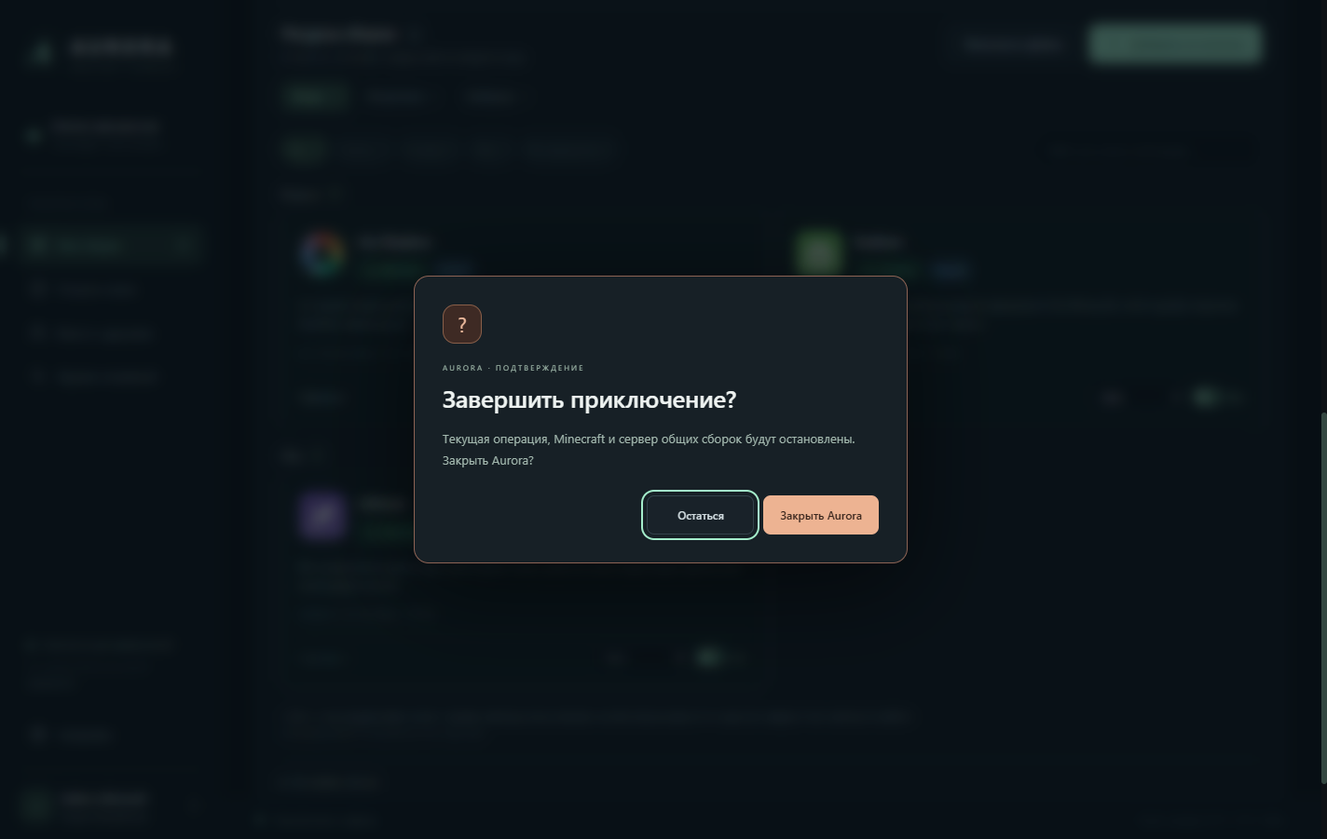
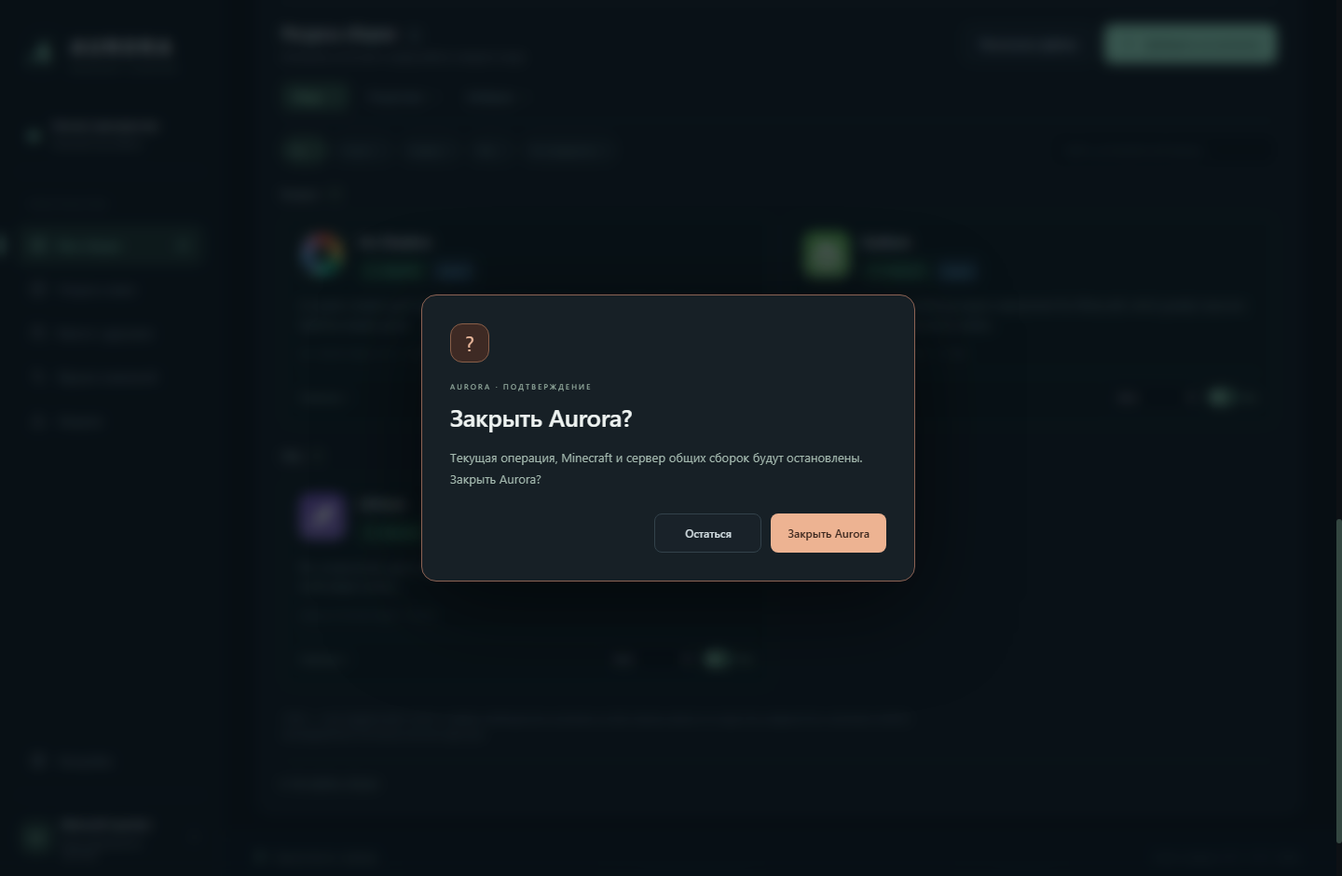
Document Aurora 0.4 release and verified Windows and Linux builds

diff --git a/docs/index.html b/docs/index.html
@@ -1,10 +1,10 @@
 <!doctype html>
 <html lang="ru"><head><meta charset="utf-8"><meta name="viewport" content="width=device-width, initial-scale=1"><meta name="theme-color" content="#0b1414"><meta name="description" content="Aurora — настольный Minecraft-лаунчер для Windows и Linux. Собирайте свой мир, управляйте модами и делитесь сборкой с друзьями."><title>Aurora — твой мир начинается здесь</title><link rel="icon" href="assets/icon.png"><link rel="stylesheet" href="style.css"></head>
 <body><a class="skip" href="#main">К содержимому</a><header><a class="brand" href="#" aria-label="Aurora — главная"><span class="brand-icon">A</span><span>AURORA<small>MINECRAFT LAUNCHER</small></span></a><nav aria-label="Основная навигация"><a href="#workspace">Возможности</a><a href="#integrations">Интеграции</a><a class="nav-source" href="https://github.com/ffxlino/Aurora">GitHub ↗</a></nav></header>
-<main id="main"><section class="hero"><img class="landscape" src="assets/landscape.svg" alt="" fetchpriority="high"><div class="hero-shade"></div><div class="hero-content"><div class="eyebrow"><span class="dot"></span> WINDOWS / LINUX x64 · PREVIEW 0.3.0</div><h1>Твой мир.<br>Твои правила.<br><em>Твоя Aurora.</em></h1><p>От первого блока до общего приключения.<br>Сборки, любимые моды и друзья — в одном<br class="desktop"> настольном лаунчере.</p><div class="hero-actions"><a class="button primary" href="https://github.com/ffxlino/Aurora/releases/tag/v0.3.0">Скачать Aurora <span>↗</span></a><a class="button ghost" href="#workspace">Посмотреть интерфейс ↓</a></div><div class="hero-note">Открытый исходный код · Minecraft Java Edition</div></div><div class="landscape-label">01 / MINECRAFT JAVA EDITION</div></section>
-<section class="intro" id="workspace"><div class="section-label">01 — ЛИЧНОЕ ПРОСТРАНСТВО</div><div class="section-heading"><h2>Каждая сборка —<br><span>отдельная история.</span></h2><p>Уютный survival, техническая сборка или мир для компании. Выбирай версию Minecraft и загрузчик, добавляй ресурсы и сохраняй порядок в своей библиотеке.</p></div><figure class="app-preview"><div class="window-bar"><span class="window-dots">● ● ●</span><span>Aurora / Ресурсы сборки</span><span>DESKTOP</span></div><img src="assets/resources.png" alt="Реальный интерфейс Aurora: карточки Iris, Sodium и Lithium с описаниями, источниками и переключателями" width="1424" height="901" loading="lazy"><figcaption>Настоящий интерфейс версии 0.3.0. Показана тестовая сборка Minecraft 1.21.1.</figcaption></figure><div class="feature-row"><article><span class="feature-number">01</span><h3>Видно, что установлено</h3><p>Иконка, описание, версия и источник каждого ресурса. Моды разделены на клиентские, серверные и общие; неизвестную категорию можно уточнить вручную.</p></article><article><span class="feature-number">02</span><h3>Меньше ручной работы</h3><p>Выбор совместимых версий, загрузка обязательных зависимостей и подходящей Java. Шейдеры и ресурспаки попадают в свои папки.</p></article><article><span class="feature-number">03</span><h3>Изменения под контролем</h3><p>Переключатели модов, резервные копии заменяемых файлов и подтверждения внутри интерфейса. Собирай свой набор постепенно.</p></article></div></section>
-<section class="together" id="friends"><div><div class="section-label">02 — ВМЕСТЕ ЛУЧШЕ</div><h2>Одна сборка.<br><span>Вся компания.</span></h2><p>Открой пространство на своём компьютере и передай друзьям адрес. Они смогут скачать общую сборку, а доверенные редакторы — публиковать изменения.</p><a class="text-link" href="https://github.com/ffxlino/Aurora/blob/main/documentation/USER_GUIDE_RU.md">Как устроена совместная работа ↗</a></div><div class="sharing-list"><div><span>01</span><section><h3>Доступ по твоим правилам</h3><p>В текущей версии используется мастер-пароль. Авторизация редакторов по Minecraft ожидает одобрения Mojang.</p></section></div><div><span>02</span><section><h3>Понятная история</h3><p>Кто изменил файлы, что добавлено и когда опубликована новая ревизия.</p></section></div><div><span>03</span><section><h3>Синхронизация с проверкой</h3><p>Загрузка по запросу и обнаружение конфликтов локальных изменений.</p></section></div></div><p class="section-footnote">Хост должен оставаться включённым и доступным по сети. Пространство синхронизирует файлы сборки; для совместной игры нужен отдельный Minecraft-сервер или LAN-мир.</p></section>
-<section class="integrations" id="integrations"><div class="section-label">03 — ОТКРЫТО ОБ ИНТЕГРАЦИЯХ</div><div class="section-heading"><h2>Любимые ресурсы.<br><span>Понятные источники.</span></h2><p>Aurora находится в разработке. Здесь указан фактический статус подключений, чтобы было ясно, что уже проверено и что ещё требует настройки.</p></div><div class="integration-grid"><article><div class="provider modrinth">◉ Modrinth</div><h3>Каталог и установка</h3><p>Сборки, моды, ресурспаки и шейдеры. Поиск и настоящие загрузки проверены, включая Sodium, Iris и Complementary.</p><span class="status ready">Проверены реальные загрузки</span></article><article><div class="provider curseforge">◆ CurseForge</div><h3>Подготовленная интеграция</h3><p>Поиск, версии, зависимости и импорт реализованы. Для использования нужен одобренный API-ключ приложения; у Aurora его пока нет. В версии 0.3.0 источник временно отключён.</p><span class="status pending">Требуется доступ к API</span></article><article><div class="provider microsoft">▦ Microsoft</div><h3>Официальный аккаунт</h3><p>Пока Mojang рассматривает заявку, Aurora готовит профиль и открывает официальный Minecraft Launcher. Вход выполняется там.</p><span class="status pending">Запуск через официальный лаунчер</span></article></div><aside class="reviewer" lang="en"><strong>For API reviewers</strong><p>Aurora is an independent Windows and Linux desktop launcher. The integration uses project search, compatible file metadata, dependencies and permitted downloads. Unavailable third-party downloads are rejected. No other launcher's API key is bundled. Live CurseForge validation is pending project API access.</p><a class="text-link" href="https://github.com/ffxlino/Aurora/blob/main/documentation/INTEGRATIONS.md">Read the integration overview ↗</a></aside></section>
+<main id="main"><section class="hero"><img class="landscape" src="assets/landscape.svg" alt="" fetchpriority="high"><div class="hero-shade"></div><div class="hero-content"><div class="eyebrow"><span class="dot"></span> WINDOWS / LINUX x64 · PREVIEW 0.4.0</div><h1>Твой мир.<br>Твои правила.<br><em>Твоя Aurora.</em></h1><p>От первого блока до общего приключения.<br>Сборки, любимые моды и друзья — в одном<br class="desktop"> настольном лаунчере.</p><div class="hero-actions"><a class="button primary" href="https://github.com/ffxlino/Aurora/releases/tag/v0.4.0">Скачать Aurora <span>↗</span></a><a class="button ghost" href="#workspace">Посмотреть интерфейс ↓</a></div><div class="hero-note">Открытый исходный код · Minecraft Java Edition</div></div><div class="landscape-label">01 / MINECRAFT JAVA EDITION</div></section>
+<section class="intro" id="workspace"><div class="section-label">01 — ЛИЧНОЕ ПРОСТРАНСТВО</div><div class="section-heading"><h2>Каждая сборка —<br><span>отдельная история.</span></h2><p>Уютный survival, техническая сборка или мир для компании. Выбирай версию Minecraft и загрузчик, добавляй ресурсы и сохраняй порядок в своей библиотеке.</p></div><figure class="app-preview"><div class="window-bar"><span class="window-dots">● ● ●</span><span>Aurora / Ресурсы сборки</span><span>DESKTOP</span></div><img src="assets/resources.png" alt="Реальный интерфейс Aurora: карточки Iris, Sodium и Lithium с описаниями, источниками и переключателями" width="1424" height="901" loading="lazy"><figcaption>Настоящий интерфейс версии 0.4.0. Показана тестовая сборка Minecraft 1.21.1.</figcaption></figure><div class="feature-row"><article><span class="feature-number">01</span><h3>Видно, что установлено</h3><p>Иконка, описание, версия и источник каждого ресурса. Моды разделены на клиентские, серверные и общие; неизвестную категорию можно уточнить вручную.</p></article><article><span class="feature-number">02</span><h3>Меньше ручной работы</h3><p>Выбор совместимых версий, загрузка обязательных зависимостей и подходящей Java. Шейдеры и ресурспаки попадают в свои папки.</p></article><article><span class="feature-number">03</span><h3>Изменения под контролем</h3><p>Резервные копии с мирами, массовое обновление с откатом и диагностика ошибок. Подтверждения остаются внутри интерфейса.</p></article></div></section>
+<section class="together" id="friends"><div><div class="section-label">02 — ВМЕСТЕ ЛУЧШЕ</div><h2>Одна сборка.<br><span>Вся компания.</span></h2><p>Открой пространство на своём компьютере и передай друзьям адрес. Они смогут скачать общую сборку, а доверенные редакторы — публиковать изменения.</p><a class="text-link" href="https://github.com/ffxlino/Aurora/blob/main/documentation/USER_GUIDE_RU.md">Как устроена совместная работа ↗</a></div><div class="sharing-list"><div><span>01</span><section><h3>Доступ по твоим правилам</h3><p>Владелец создаёт приглашения с ролями читателя и редактора. Список участников сохраняется, доступ можно отозвать.</p></section></div><div><span>02</span><section><h3>Понятная история</h3><p>Кто изменил файлы, что добавлено и когда опубликована новая ревизия.</p></section></div><div><span>03</span><section><h3>Синхронизация с проверкой</h3><p>Загрузка по запросу и обнаружение конфликтов локальных изменений.</p></section></div></div><p class="section-footnote">Встроенный хост работает при открытой Aurora. Для постоянного доступа подготовлен отдельный сервер Cloudflare Workers Free: его нужно разместить в своём аккаунте. Для совместной игры нужен отдельный Minecraft-сервер или LAN-мир.</p></section>
+<section class="integrations" id="integrations"><div class="section-label">03 — ОТКРЫТО ОБ ИНТЕГРАЦИЯХ</div><div class="section-heading"><h2>Любимые ресурсы.<br><span>Понятные источники.</span></h2><p>Aurora находится в разработке. Здесь указан фактический статус подключений, чтобы было ясно, что уже проверено и что ещё требует настройки.</p></div><div class="integration-grid"><article><div class="provider modrinth">◉ Modrinth</div><h3>Каталог и установка</h3><p>Сборки, моды, ресурспаки и шейдеры. Поиск и настоящие загрузки проверены, включая Sodium, Iris и Complementary.</p><span class="status ready">Проверены реальные загрузки</span></article><article><div class="provider curseforge">◆ CurseForge</div><h3>Подготовленная интеграция</h3><p>Поиск, версии, зависимости и импорт реализованы. Для использования нужен одобренный API-ключ приложения; у Aurora его пока нет. В версии 0.4.0 источник временно отключён.</p><span class="status pending">Требуется доступ к API</span></article><article><div class="provider microsoft">▦ Microsoft</div><h3>Официальный аккаунт</h3><p>Пока Mojang рассматривает заявку, Aurora готовит профиль и открывает официальный Minecraft Launcher. Вход выполняется там.</p><span class="status pending">Запуск через официальный лаунчер</span></article></div><aside class="reviewer" lang="en"><strong>For API reviewers</strong><p>Aurora is an independent Windows and Linux desktop launcher. The integration uses project search, compatible file metadata, dependencies and permitted downloads. Unavailable third-party downloads are rejected. No other launcher's API key is bundled. Live CurseForge validation is pending project API access.</p><a class="text-link" href="https://github.com/ffxlino/Aurora/blob/main/documentation/INTEGRATIONS.md">Read the integration overview ↗</a></aside></section>
 <section class="start" id="start"><div><div class="section-label">04 — НАЧАЛО ПУТИ</div><h2>Собери своё<br><span>следующее приключение.</span></h2><p>Исходники, инструкция по сборке и текущие ограничения доступны в репозитории. Проект продолжает развиваться — обратная связь помогает выбрать следующий шаг.</p></div><div class="start-actions"><a class="button primary" href="https://github.com/ffxlino/Aurora">Открыть репозиторий ↗</a><a class="button ghost" href="https://github.com/ffxlino/Aurora/issues">Задать вопрос ↗</a><small>Windows 10/11 и Linux x64 · Minecraft Java 1.18+<br>Переносимая сборка · EXE без цифровой подписи</small></div></section>
 <section class="faq"><h2>Перед первым запуском</h2><details><summary>Нужно ли устанавливать Java отдельно?</summary><p>Нет. Лаунчер загружает подходящую Java. Готовый Windows EXE включает среду приложения. Node.js нужен только для сборки из исходников.</p></details><details><summary>Можно ли играть без лицензии Minecraft?</summary><p>Для входа и игры нужен аккаунт Microsoft с Minecraft Java Edition. В Aurora нет обхода лицензии. Текущая версия передаёт запуск установленному официальному Minecraft Launcher.</p></details><details><summary>Все сочетания модов будут работать?</summary><p>Каталог подбирает версии по Minecraft и загрузчику, но совместимость произвольных модов проверяется в игре. Категории «Клиент», «Сервер» и «Оба» описывают среду работы, а не гарантируют совместимость.</p></details><details><summary>Как Aurora связана с CraftSync?</summary><p>Aurora продолжает работу в репозитории прежнего проекта CraftSync. Репозиторий переименован, а предыдущая реализация сохранена в истории Git.</p></details></section>
 </main><footer><a class="brand" href="#"><span class="brand-icon">A</span><span>AURORA<small>MINECRAFT LAUNCHER</small></span></a><div><a href="https://github.com/ffxlino">ffxlino ↗</a><a href="https://github.com/ffxlino/Aurora/blob/main/LICENSE">MIT License ↗</a><p>Независимый проект. Не является официальным продуктом Minecraft.<br>Не связан с Mojang, Microsoft, CurseForge, Modrinth или Prism Launcher.</p></div></footer></body></html>

diff --git a/documentation/USER_GUIDE_RU.md b/documentation/USER_GUIDE_RU.md
@@ -1,4 +1,4 @@
-# Aurora 0.3.0
+# Aurora 0.4.0
 
 Десктопный менеджер сборок Minecraft Java 1.18 и новее для Windows и Linux x64.
 
@@ -17,9 +17,9 @@
 
 ## Linux / Arch
 
-Aurora-0.3.0-Linux-x86_64.AppImage: разрешите выполнение файла в свойствах и откройте его. На системах без FUSE 2 можно использовать стандартный режим извлечения AppImage (--appimage-extract-and-run) либо установить пакет pacman.
+Aurora-0.4.0-Linux-x86_64.AppImage: разрешите выполнение файла в свойствах и откройте его. На системах без FUSE 2 можно использовать стандартный режим извлечения AppImage (--appimage-extract-and-run) либо установить пакет pacman.
 
-Aurora-0.3.0-Linux-x64.pacman: установите через `sudo pacman -U ./Aurora-0.3.0-Linux-x64.pacman`. Затем запустите Aurora из меню приложений. Пакет объявляет зависимости GTK, NSS, звука и графики; pacman установит их. Поддерживается x86_64, не ARM. Проверка Linux выполняется в Ubuntu CI; работа именно в вашем окружении Arch/Wayland требует проверки на устройстве.
+Aurora-0.4.0-Linux-x64.pacman: установите через `sudo pacman -U ./Aurora-0.4.0-Linux-x64.pacman`. Затем запустите Aurora из меню приложений. Пакет объявляет зависимости GTK, NSS, звука и графики; pacman установит их. Поддерживается x86_64, не ARM. Проверка Linux выполняется в Ubuntu CI; работа именно в вашем окружении Arch/Wayland требует проверки на устройстве.
 
 Java устанавливается автоматически: Windows ZIP / Linux tar.gz. Учётные данные Microsoft при временном режиме хранит официальный лаунчер.
 
@@ -27,7 +27,17 @@ Java устанавливается автоматически: Windows ZIP / Li
 
 Каталог Modrinth: сборки, моды, ресурспаки и шейдеры; фильтр по версии и загрузчику; обязательные зависимости. Карточки установленных ресурсов с источником, описанием, средой клиент/сервер/оба и переключателем модов. Импорт и экспорт .mrpack. Добавление локальных файлов, переименование, архивирование с сохранением миров, сортировка по имени и дате создания. История изменений и резервные копии. Кнопка открытия настоящего latest.log из папки сборки.
 
-Встроенный HTTPS сервер общих файлов работает, пока Aurora открыта. Пока прямой вход недоступен, подключение в этом режиме возможно по мастер-паролю администратора. Это не постоянный хостинг и не игровой сервер. Белый список сохранён, но проверка игроков требует доступного прямого входа Minecraft. Миры и данные аккаунтов не публикуются.
+Новые возможности 0.4: резервные копии с необязательным сохранением миров и проверкой целостности перед восстановлением; массовое обновление ресурсов Modrinth с копией перед изменением; диагностика типичных сбоев и экспорт очищенного отчёта; отдельная память, Java и размер окна для каждой сборки; избранное, теги и свои обложки; очередь загрузок с паузой и продолжением; выбор совместимой версии загрузчика; возврат сборки из архива.
+
+Встроенный HTTPS сервер общих файлов работает, пока Aurora открыта. Приглашения участников и роли «Читатель» / «Редактор» сохраняются, отзыв приглашения отключает текущую сессию. Имена приглашений задаёт владелец: они не подтверждают личность Microsoft. Проверка UUID Minecraft предусмотрена после одобрения прямой авторизации. Миры и данные аккаунтов не публикуются.
+
+## Постоянный сервер
+
+Код сервера Cloudflare находится в `cloud/`. Размещение ещё требует завершения OAuth владельцем и проверки его тарифа Workers Free. После размещения сервер доступен независимо от открытого приложения. Это хранилище и синхронизация сборки, а не игровой сервер Minecraft.
+
+Используется Workers Free с SQLite Durable Objects, без R2 и платного тарифа. Приложение ограничивает сборку 4 000 000 000 байт, отдельный файл — 512 МиБ, опубликованные и подготовленные файлы вместе — 4 500 000 000 байт. Бесплатные 5 ГБ хранилища распространяются на весь аккаунт, включая другие проекты. При обновлении нужно место для изменённых файлов; большие обновления сборки около 4 ГБ могут не поместиться. Ненужные прежние файлы удаляются после публикации, незавершённые загрузки — через сутки. Перед крупными изменениями сохраните локальную копию.
+
+На Workers Free превышение квот останавливает соответствующие операции, дневные лимиты сбрасываются в 00:00 UTC: https://developers.cloudflare.com/durable-objects/platform/pricing/ . Не подключайте Workers Paid или R2, если требуются отсутствие карты и списаний. Мастер-пароль сервера хранится как секрет Cloudflare и в зашифрованном локальном хранилище владельца, не в исходниках или раздаваемом приложении. Друзья входят по приглашению.
 
 ## Разработка
 

diff --git a/VALIDATION.md b/VALIDATION.md
@@ -1,13 +1,14 @@
-# Проверка Aurora 0.2.1
+# Validation — Aurora 0.4.0
 
-Дата: 11 октября 2026. Windows x64.
+34 launcher tests and 4 cloud-server tests passed locally and in Windows/Linux CI. Server tests use native workerd via Miniflare, including the actual Aurora HubClient publishing chunks and pulling updates while retaining local worlds.
 
-- Client ID владельца встроен в launcher.config.json. Поле ручного ввода ID удалено из пользовательского интерфейса. При обновлении пустая настройка предыдущей версии получает встроенное значение.
-- Убраны лишние слоганы из боковой панели и библиотеки.
-- Закрытие окна входа отменяет ожидание Microsoft и сохраняет ранее подключённый профиль.
-- 22 автоматические проверки пройдены. Добавлены проверки цепочки Microsoft → Xbox → Minecraft на тестовых ответах, отмены входа и сообщения о выключенных public client flows. Тестовые токены не попадают в интерфейс.
-- Проверка настоящего интерфейса пройдена: встроенный ID сохраняется при изменении других настроек, поле ID отсутствует, карточки и подтверждения работают.
+The final Windows portable EXE passed six-view interface tests, custom confirmation acceptance/cancellation, settings/backup/decoration/diagnostic controls, Modrinth resource cards, mod toggling and manual environment selection, HTTPS admin connection and close confirmation. No horizontal overflow in tested views.
 
-Проверка живого запроса Microsoft с Client ID владельца: получен AADSTS70002 (нужно включить public client flows в Entra). Сам вход в аккаунт и запуск лицензированной игры пока не проверены. Это отдельный этап после настройки владельцем.
+Linux AppImage and pacman packaging passed in Ubuntu 22.04 CI. The packaged Linux interface passed six-view tests. A real Minecraft 1.20.1 / Fabric 0.16.10 / Java 17 installation generated the official launcher profile and successfully invoked downloaded Linux Java. Windows real installation was previously validated in 0.3; no new Windows licensed game launch is claimed.
 
-Modrinth и другие возможности проверялись в 0.2.0: реальные загрузки Sodium, Lithium, Iris, Complementary и Fresh Animations; карточки, категории, переключатели и HTTPS-сервер. CurseForge остаётся без проектного API-ключа; проверен на тестовых ответах. Постоянный облачный сервер ещё не развёрнут.
+Cloud worker dry-run bundle passed. Authentication to the owner's Cloudflare account succeeded; live deployment awaits Workers activation and Free-plan confirmation. R2 and paid resources are absent from the configuration. A 4 GB production upload has not been tested.
+
+Not verified: licensed game start and Microsoft sign-in through the official launcher on this Windows machine (the official launcher is not installed), actual Arch/Wayland desktop, hardware-specific graphics/audio. Direct Microsoft sign-in in Aurora and CurseForge remain disabled pending approval. Aurora opens the prepared profile in the official launcher; the user signs in and presses Play there.
+
+CI: https://github.com/ffxlino/Aurora/actions/runs/38433792642
+Release: https://github.com/ffxlino/Aurora/releases/tag/v0.4.0

diff --git a/documentation/INTEGRATIONS.md b/documentation/INTEGRATIONS.md
@@ -1,6 +1,6 @@
 # API integration overview
 
-Aurora is a Windows desktop launcher for Minecraft Java Edition, maintained by GitHub user ffxlino. Its source is in the Aurora repository, renamed from CraftSync. The current application is an Electron desktop app; the website is a static project introduction.
+Aurora is a Windows and Linux desktop launcher for Minecraft Java Edition, maintained by GitHub user ffxlino. Its source is in the Aurora repository, renamed from CraftSync. The current application is an Electron desktop app; the website is a static project introduction.
 
 ## Intended CurseForge usage
 
@@ -19,11 +19,11 @@ Downloads with no available URL are rejected with an explanatory error. The appl
 
 Modrinth: public project search, versions, required dependencies, file hash recognition and mrpack import. Real resource downloads have been verified.
 
-Microsoft: device-code sign-in followed by Xbox Live and Minecraft Services. The owner’s application Client ID is bundled. Public client flows must be enabled in Entra, and a licensed account is required. Live authorization remains unverified.
+Microsoft: device-code sign-in followed by Xbox Live and Minecraft Services. The owner’s application Client ID is bundled. Public client flows must be enabled in Entra, and a licensed account is required. Approval from Mojang is pending. Direct sign-in is disabled in the distributed application; the current mode prepares an isolated profile and opens the separately installed official Minecraft Launcher.
 
 ## Data and hosting
 
-Settings and instances are local. Sensitive stored credentials use Electron safeStorage on Windows. The optional shared modpack hub is hosted by a user, with HTTPS certificate pinning, password hashing, editor permissions and revision conflict checks. Aurora does not operate a public mod mirror or central account service.
+Settings and instances are local. Sensitive stored credentials use Electron safeStorage on Windows. The optional shared modpack hub is hosted by a user, with HTTPS certificate pinning, password hashing, editor permissions and revision conflict checks. A separate Cloudflare Workers Free / SQLite Durable Objects backend is available for private invited groups, with chunk uploads, checksums, immutable verified files, persistent roles and revision checks. It requires owner deployment; it is not a Minecraft gameplay server. Aurora does not operate a public mod mirror or central account service.
 
 The static website has no login, advertising, analytics, payment system or API key input. Screenshots use a test instance and are illustrative of the actual application UI.
 
